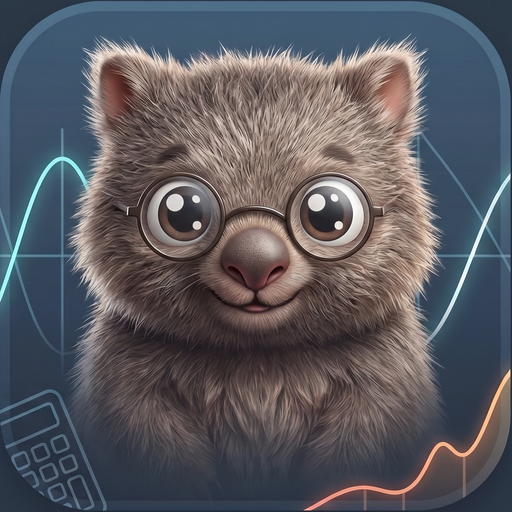
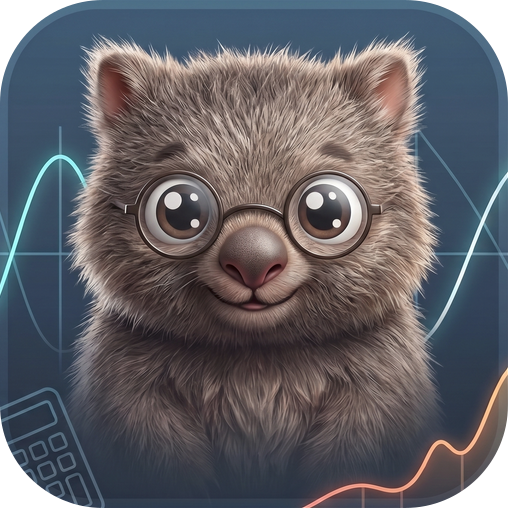
Rounded corners thanks to gnoman
https://gitlab.gnome.org/Teams/Design/app-icon-requests/-/work_items/150#note_2748633

diff --git a/src/about.rs b/src/about.rs
@@ -7,7 +7,7 @@ pub fn build_about_dialog() -> adw::AboutDialog {
         .application_name("Wombat")
         .developer_name("Archisman Panigrahi")
         .developers(["Archisman Panigrahi https://github.com/archisman-panigrahi"])
-        .artists(["Gemini AI and Archisman Panigrahi"])
+        .artists(["Gemini AI, Archisman Panigrahi and gnoman"])
         .designers(["Archisman Panigrahi https://github.com/archisman-panigrahi"])
         .comments("High-precision scientific calculator with full support for physical units, powered by Numbat programming language.\n")
         .version(env!("CARGO_PKG_VERSION"))
